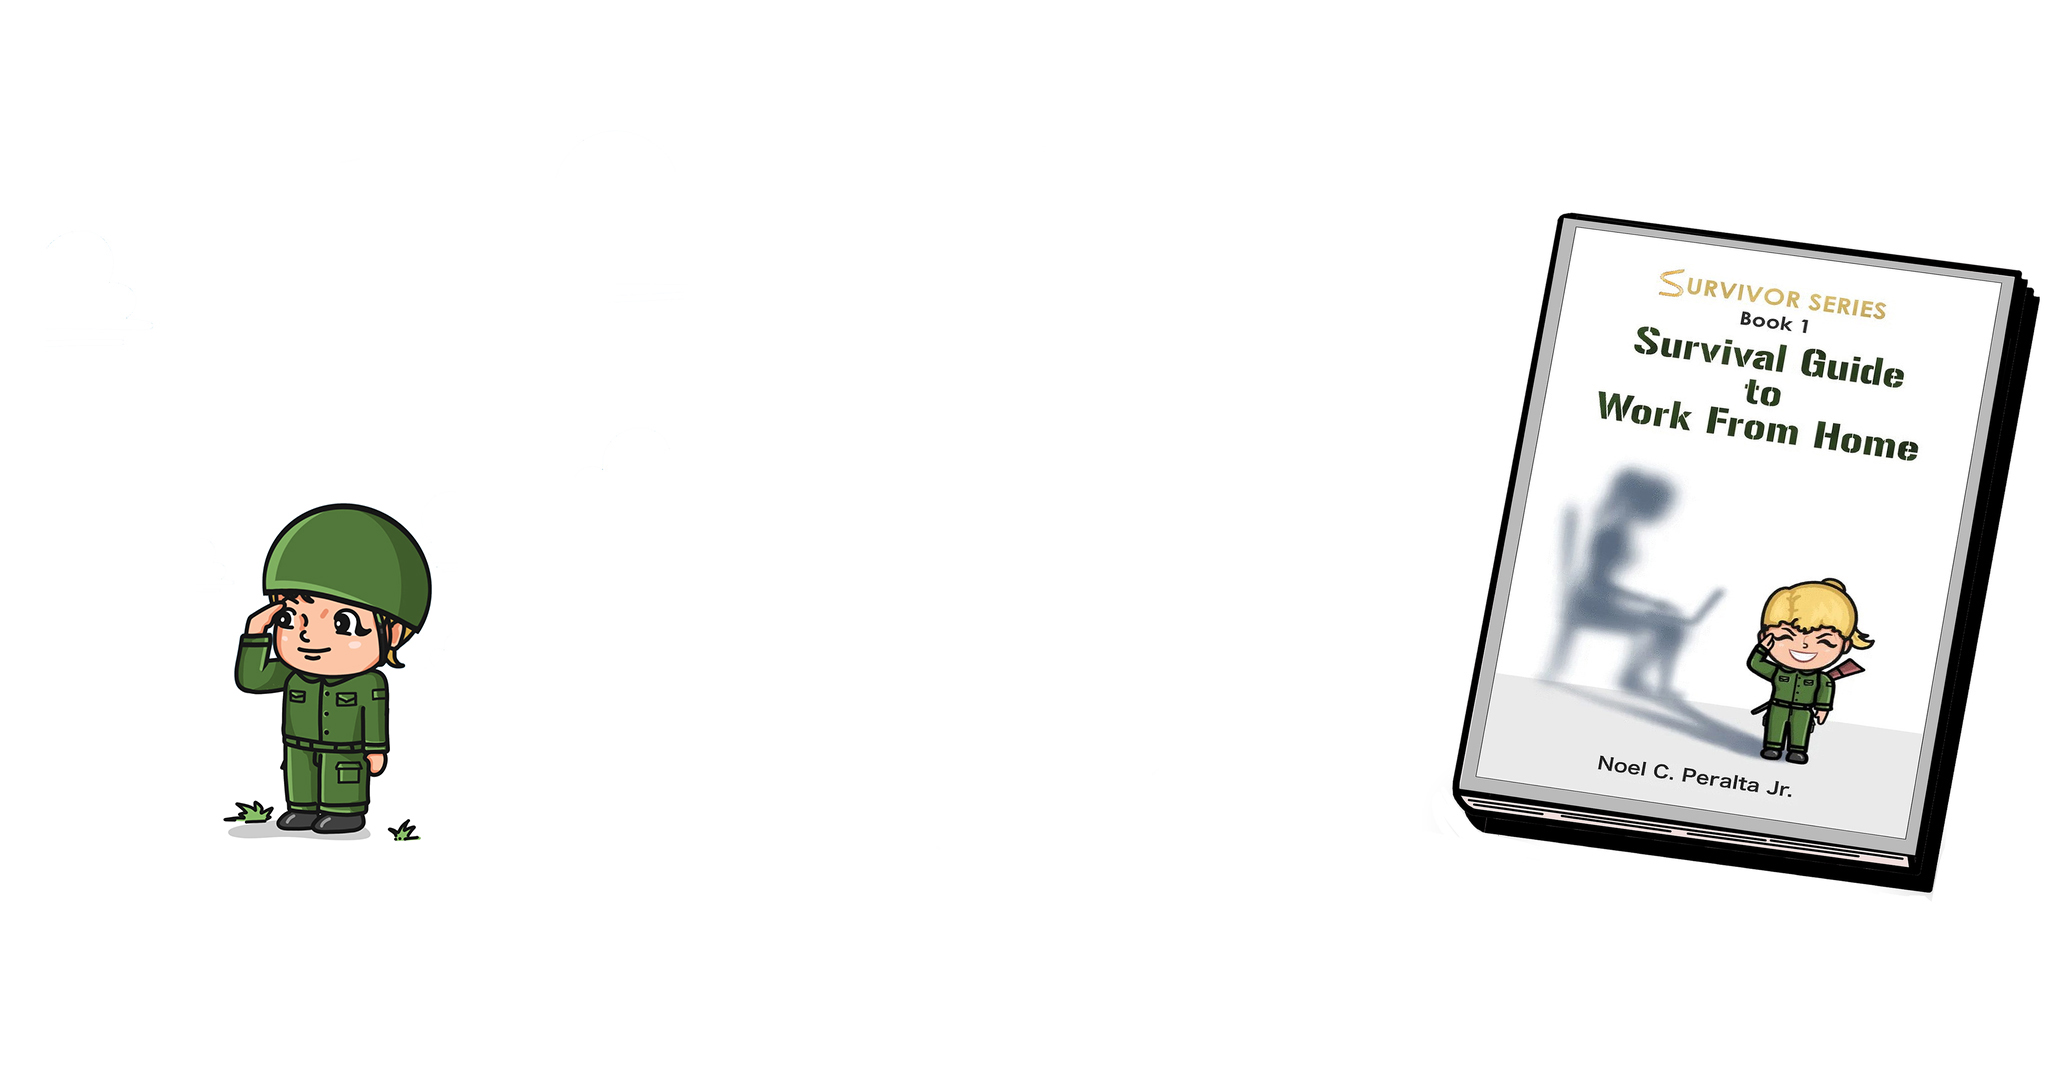
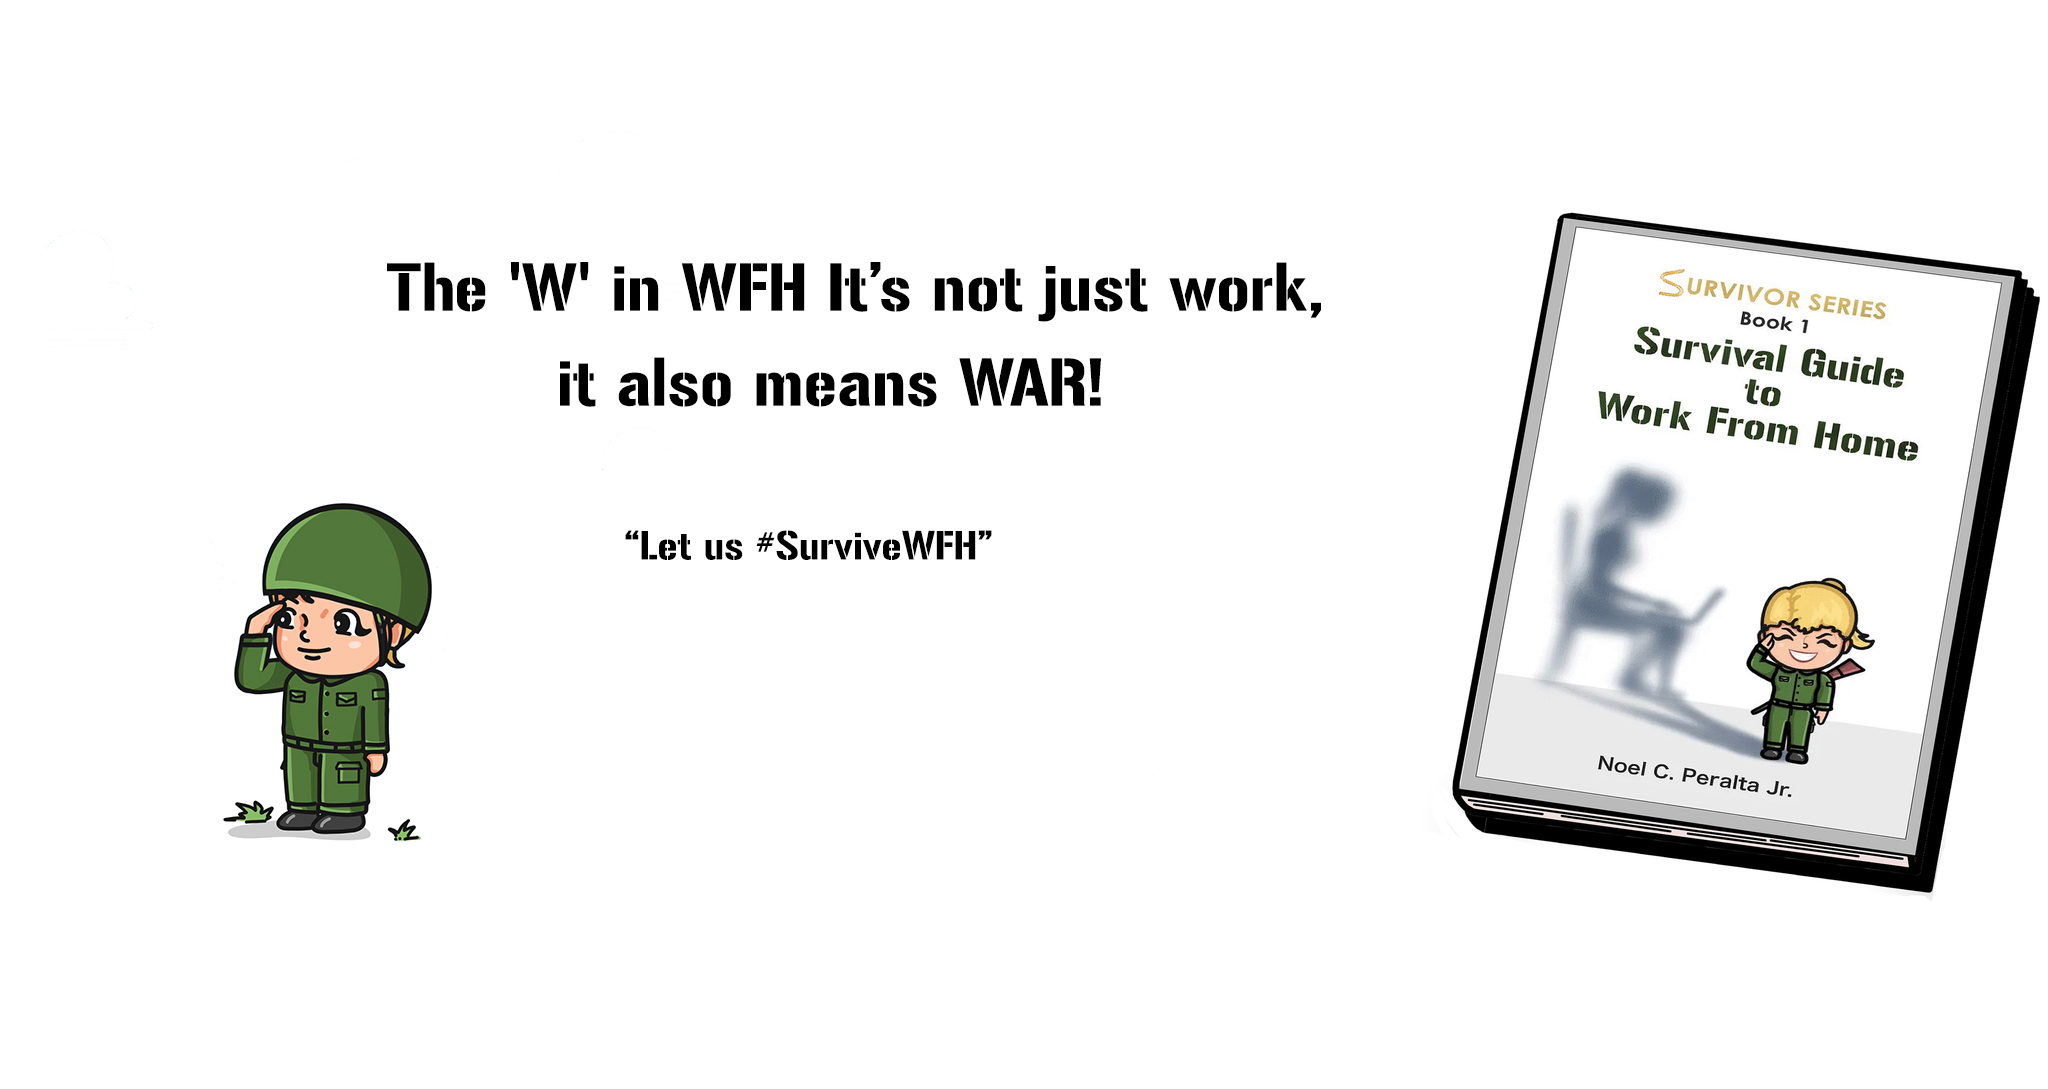
mobile app

Changed region(s): [[0.1875, 0.2185, 0.6562, 0.3747], [0.3125, 0.4683, 0.5, 0.5308]]

diff --git a/assets/mycss.css b/assets/mycss.css
@@ -25,8 +25,10 @@ p {
   font-size: 50px;
   font-family: "Gunplay";
   color: #000;
+  visibility: hidden;
 }
 .bg-1 h2 {
+  visibility: hidden;
   position: absolute;
   top: 50%;
   left: 40%;
@@ -189,11 +191,22 @@ section {
     max-width: 40%;
   }
   .bg-1 h2 {
+    visibility: visible;
     position: absolute;
-    top: 30%;
+    top: 25%;
     left: 50%;
     font-size: 8px;
     line-height: 10px;
+  }
+  .bg-1 h3 {
+    visibility: visible;
+    position: absolute;
+    top: 15% !important;
+    left: 50% !important;
+    transform: translate(-50%, -50%);
+    font-size: 20px !important;
+    font-family: "Wallpoet", cursive;
+    color: #000;
   }
   .bg-gray-light {
     padding: 1px !important;
@@ -212,7 +225,7 @@ section {
     padding: 0%;
   }
   :root {
-    --particular-ad: url("assets/img/survivor_ref/istockphoto-160389096-170667a.jpg");
+    --particular-ad: 
     width: 100%;
     height: 100%;
   }
@@ -229,49 +242,7 @@ section {
     visibility: hidden !important;
   }
 }
-@media (max-width: 1024px) {
-  .about .container-fluid img {
-    width: 50%;
-    box-shadow: none;
-    margin-top: 41px;
-    margin-bottom: -19px;
-  }
-  .contact img {
-    width: 100%;
-  }
-  .img-responsive.img-circle img {
-    width: 10%;
-  }
-  .bg-1 h3 {
-    position: absolute;
-    top: 15%;
-    left: 50%;
-    transform: translate(-50%, -50%);
-    font-size: 20px;
-    font-family: "Wallpoet", cursive;
-    color: #000;
-  }
-  .second-container.row {
-    background-image: none;
-    padding: 0%;
-  }
-  .container-fluid .text-center.row {
-    background-image: url("none");
-    padding: 1px;
-  }
-  :root {
-    --particular-ad: url("assets/img/survivor_ref/istockphoto-160389096-170667a.jpg");
-  }
-  .row.mystyle {
-    padding: 10px !important;
-  }
-  .second-container p {
-    color: #fff;
-  }
-  .width9 {
-    width: 100% !important;
-  }
-}
+
 @media (max-width: 1340px) {
   .about .container-fluid img {
     width: 50%;
@@ -287,10 +258,10 @@ section {
   }
   .bg-1 h3 {
     position: absolute;
-    top: 15%;
-    left: 50%;
+    top: 15% !important;
+    left: 50% !important;
     transform: translate(-50%, -50%);
-    font-size: 20px;
+    font-size: 20px !important;
     font-family: "Wallpoet", cursive;
     color: #000;
   }
@@ -342,10 +313,10 @@ section {
   }
   .bg-1 h3 {
     position: absolute;
-    top: 15%;
-    left: 50%;
+    top: 15% !important;
+    left: 50% !important;
     transform: translate(-50%, -50%);
-    font-size: 20px;
+    font-size: 20px !important;
     font-family: "Wallpoet", cursive;
     color: #000;
   }
@@ -358,7 +329,7 @@ section {
     padding: 1px;
   }
   :root {
-    --particular-ad: url("assets/img/survivor_ref/istockphoto-160389096-170667a.jpg");
+    --particular-ad: url("assets/img/survivor_ref/4-40566_open-book-png-transparent.png");
   }
   .row.mystyle {
     padding: 10px !important;
@@ -386,10 +357,10 @@ section {
   }
   .bg-1 h3 {
     position: absolute;
-    top: 15%;
-    left: 50%;
+    top: 30%;
+    left: 40%;
     transform: translate(-50%, -50%);
-    font-size: 20px;
+    font-size: 40px;
     font-family: "Wallpoet", cursive;
     color: #000;
   }
@@ -403,7 +374,7 @@ section {
   }
 
   :root {
-    --particular-ad: url("assets/img/survivor_ref/istockphoto-160389096-170667a.jpg");
+    --particular-ad: 
   }
 
   .second-container p {

diff --git a/index.html b/index.html
@@ -73,11 +73,11 @@
     <br>it also means WAR! </h3>
   <h2 class="margin" >“Let us #SurviveWFH”</h2>
   <div style="visibility: hidden;">
-    <img src="assets/img/survivor_ref/273044150_2998044357128332_7865731322925960383_n.jpg" class="img-responsive img-circle margin" style="display:inline" alt="Bird" width="1300" height="1000" style="display: none;">
+    <img src="assets/img/survivor_ref/home2.jpg" class="img-responsive img-circle margin" style="display:inline" alt="Bird" width="1300" height="1000" style="display: none;">
   </div>  
 </section>
 <!-- Second Container -->
-<section class="second-container reveal" id="who">
+<section class="second-container reveal" id="who" style="background-color: #f5f5f5">
   <div style="background-image: var(--particular-ad);-webkit-background-size: cover;
     -moz-background-size: cover;
     -o-background-size: cover;
@@ -153,7 +153,7 @@
 </section> -->
 <!-- Third Container (Grid) -->
 
-<section class="about reveal" id="about">
+<section class="about reveal" id="about" >
   <div class="container-fluid bg-3 text-center">    
     <h3 class="margin section-heading" >About the Book</h3>
     <div class="bg-gray-md margin-top-btm-1 line-sep"></div>
@@ -245,11 +245,6 @@
     <!-- ======= Contact Section ======= -->
     <section id="contact" class="contact">
       <div class="container" data-aos="fade-up">
-        <div class="col-md-6">
-          <div class="row xs-margin-top4">
-            <img src="assets/img/survivor_ref/contack.png" alt="" srcset=""> 
-          </div>
-         </div>
        <div class="col-md-6">
         <div class="section-heading">
           <h3 class="margin section-heading" >Contact</h3>
@@ -279,7 +274,11 @@
           </div>
         </div>
        </div>
-        
+       <div class="col-md-6">
+        <div class="row xs-margin-top4">
+          <img src="assets/img/survivor_ref/contack.png" alt="" srcset=""> 
+        </div>
+       </div>
       </div>
     </section><!-- End Contact Section -->
 <!-- Footer -->
